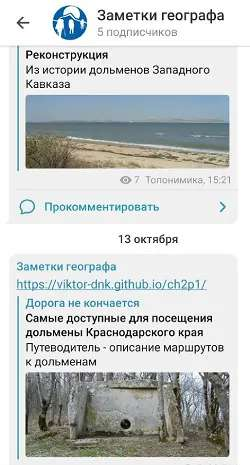
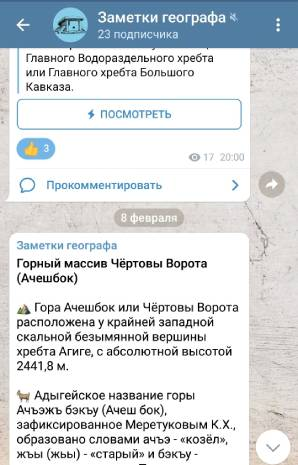
cont1

diff --git a/_info/2020-12-12-contacts.md b/_info/2020-12-12-contacts.md
@@ -15,10 +15,10 @@ keywords: твиттер, jekyll, телеграм, инстаграм, пинт
 
 Мы ведём аккаунты в нескольких социальных сетях, в которых в разной мере поддерживаем этот сайт:
 
-- У нас есть [телеграм-канал][a85077ec], в котором удобно следить за обновлениями этого сайта. В нём быстрее всего появляются аннотации ко всем новым статьям, есть возможность оставлять комментарии и никакой посторонней информации.
+- У нас есть [телеграм-канал][a85077ec], в котором удобно следить за обновлениями этого сайта. В нём быстрее всего появляются аннотации ко всем новым статьям. Есть возможность оставлять комментарии и никакой посторонней информации. В мобильном приложении читать статьи можно не посещая сайт (технология instant-view)
 
 <figure>
-  <img title="Мобильное приложение" alt="Мобильное приложение" src="/img/info/contacts/tlgrm-screen2.jpg"/> <img title="Настольное приложение" alt="Настольное приложение" src="/img/info/contacts/tlgrm-screen1.jpg"/>
+  <img title="Мобильное приложение" alt="Мобильное приложение" width="298" height="465" src="/img/info/contacts/tlgrm-screen2.jpg"/> <img title="Настольное приложение" alt="Настольное приложение" width="322" height="465" src="/img/info/contacts/tlgrm-screen1.jpg"/>
   <figcaption>Мобильное и настольное приложение Телеграм.</figcaption>
 </figure>
 
